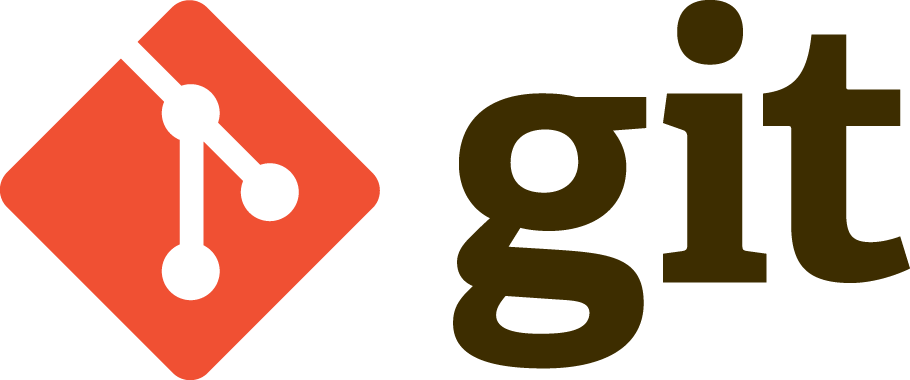
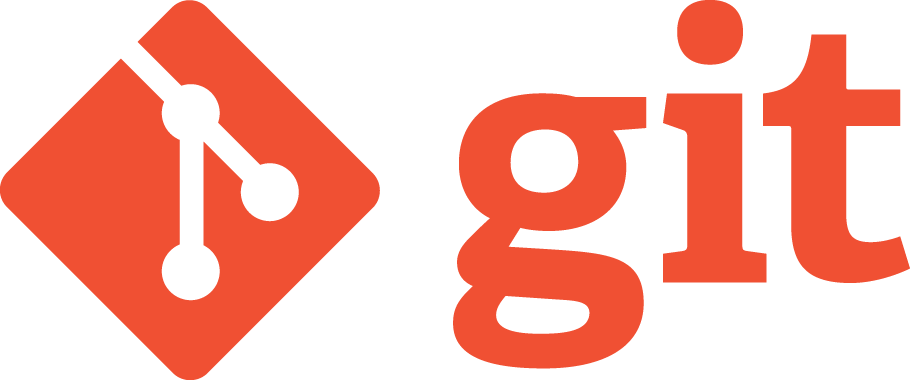
Add GitHub and softwares links Change some images

Changed region(s): [[0.4923, 0.0868, 1.0, 0.9842], [0.7385, 0.0, 0.8308, 0.1737]]

diff --git a/romain/src/main/resources/templates/pages/home.html b/romain/src/main/resources/templates/pages/home.html
@@ -44,46 +44,73 @@
 									<p id="aboutMeP2" class="aboutMePClass display-5 text-white">The <b>software development profession</b> is a way to realize myself professionally allowing me to canalize my energy in knowledge, projects and efficiency. </p>
 									<p id="aboutMeP3" class="aboutMePClass display-5 text-white">After <b>three years traveling</b> and working <b>around the world</b>, I am seeking a challenging position in <b>Java software development</b> or project management in <b>Canada</b>.</p>
 								</div>
-								<div class="col-6 text-center"></div>
-							</div>
-							<div class="row rowLogos">
-								<div class="col-3 text-center">
-									<a href="">
-										<img class="knowledgeImgs" src="img/php.png"/>
-									</a>
-								</div>
-								<div class="col-3 text-center">
-									<a href="">
-										<img class="knowledgeImgs" src="img/sql.png"/>
-									</a>
-								</div>
-								<div class="col-3 text-center">
-									<a href="">
-										<img class="knowledgeImgs" src="img/springBoot.png"/>
-									</a>
-								</div>
-								<div class="col-3 text-center">
-									<a href="">
-										<img class="knowledgeImgs" src="img/thymeleaf.png"/>
-									</a>
+								<div class="col-5 text-right">
+									<div class="text-center mt-3 p-3" style="min-width: 100px; float: right;">
+										<a href="https://github.com/fukakai?tab=repositories">
+											<img src="img/githubWhite4.png" height="80"/>
+										</a>
+										<p class="text-white">Find me<br/>on GitHub</p>
+									</div>
 								</div>
 							</div>
 							<div class="row rowLogos">
 								<div class="col-3 text-center">
-									<a href="">
-										<img class="knowledgeImgs" src="img/eclipse.png"/>
-									</a>
+									<div class="rounded iconBackground">
+										<a href="https://php.net/">
+											<img class="knowledgeImgs" src="img/php.png"/>
+										</a>
+									</div>
 								</div>
 								<div class="col-3 text-center">
-									<h6 class="text-white">REST</h1>
+									<div class="rounded iconBackground">
+										<a href="https://www.oracle.com/database/technologies/appdev/sql-developer.html">
+											<img class="knowledgeImgs" src="img/sql.png"/>
+										</a>
+									</div>
 								</div>
 								<div class="col-3 text-center">
-									<h6 class="text-white">MVC</h1>
+									<div class="rounded iconBackground">
+										<a href="https://spring.io/projects/spring-boot">
+											<img class="knowledgeImgs" src="img/springBoot.png"/>
+										</a>
+									</div>
 								</div>
 								<div class="col-3 text-center">
-									<a href="">
-										<img class="knowledgeImgs" src="img/git.png"/>
-									</a>
+									<div class="rounded iconBackground">
+										<a href="https://www.thymeleaf.org/">
+											<img class="knowledgeImgs" src="img/thymeleaf.png"/>
+										</a>
+									</div>
+								</div>
+							</div>
+							<div class="row rowLogos">
+								<div class="col-3 text-center">
+									<div class="rounded iconBackground">
+										<a href="https://www.eclipse.org/">
+											<img class="knowledgeImgs" src="img/eclipse.png"/>
+										</a>
+									</div>
+								</div>
+								<div class="col-3 text-center">
+									<div class="rounded iconBackground">
+										<span class="text-white align-middle">
+											REST
+										</span>
+									</div>
+								</div>
+								<div class="col-3 text-center">
+									<div class="rounded iconBackground">
+										<span class="text-white align-middle">
+											MVC
+										</span>
+									</div>
+								</div>
+								<div class="col-3 text-center">
+									<div class="rounded iconBackground">
+										<a href="https://git-scm.com/">
+											<img class="knowledgeImgs" src="img/git.png"/>
+										</a>
+									</div>
 								</div>
 							</div>
 						</div>

diff --git a/romain/src/main/resources/static/css/theme.css b/romain/src/main/resources/static/css/theme.css
@@ -123,3 +123,16 @@ html body section#projects div#projectsContainer.container.h-100 div.content div
 .rowLogos{
 	margin-top: 50px;
 }
+
+.iconBackground{
+	width: 150px;
+	height: 100%;
+	padding: 8px;
+	vertical-align:middle;
+	background:rgba(255,255,255,0.1);
+}
+
+.iconBackground span{
+	font-weight: bold;
+	font-size: 18px;
+}
